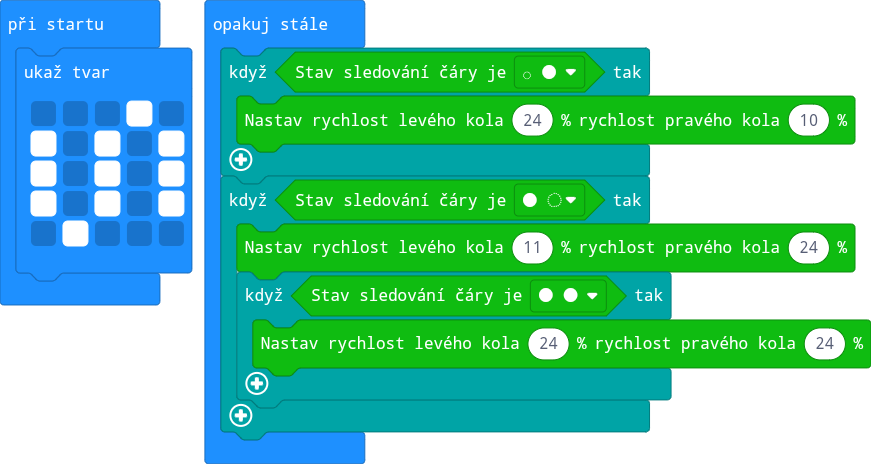
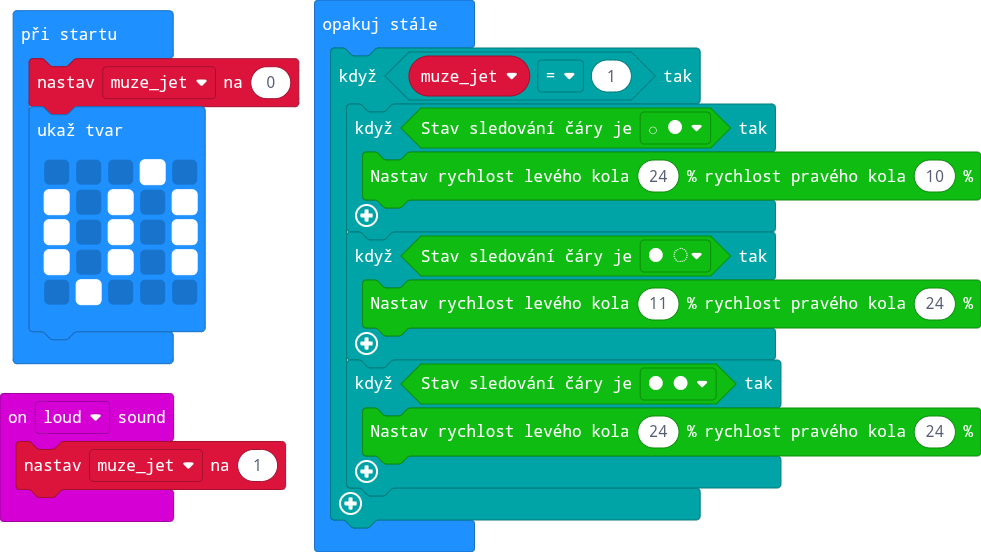
Aktualizovat main.blocks, main.ts

diff --git a/main.ts b/main.ts
@@ -1,3 +1,8 @@
+input.onSound(DetectedSound.Loud, function () {
+    muze_jet = 1
+})
+let muze_jet = 0
+muze_jet = 0
 basic.showLeds(`
     . . . # .
     # . # . #
@@ -6,11 +11,13 @@ basic.showLeds(`
     . # . . .
     `)
 basic.forever(function () {
-    if (cuteBot.tracking(cuteBot.TrackingState.L_unline_R_line)) {
-        cuteBot.motors(24, 10)
-    }
-    if (cuteBot.tracking(cuteBot.TrackingState.L_line_R_unline)) {
-        cuteBot.motors(11, 24)
+    if (muze_jet == 1) {
+        if (cuteBot.tracking(cuteBot.TrackingState.L_unline_R_line)) {
+            cuteBot.motors(24, 10)
+        }
+        if (cuteBot.tracking(cuteBot.TrackingState.L_line_R_unline)) {
+            cuteBot.motors(11, 24)
+        }
         if (cuteBot.tracking(cuteBot.TrackingState.L_R_line)) {
             cuteBot.motors(24, 24)
         }
